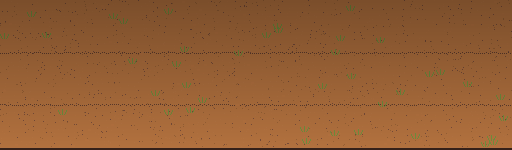
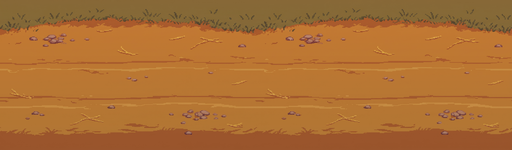
Refresh the fighting floors across all twelve stages (#1)

diff --git a/README.md b/README.md
@@ -64,7 +64,7 @@ Only these sprites are reused:
 - **UFO:** the saucer (cockpit layers, laser, muzzle, beach ball and shield) from Sproto-Arcade `art/attacks/player/higgsfield/saucer*`.
 - **Playable Sprotos:** six characters from the [Sproto-Fighter](https://github.com/crrreatorrr/Sproto-Fighter) fighters that have complete pose sets (`public/fighters/poses/`): **Sproto Sheriff** (`sproto3106`), **VAMP** (`vamp`), **Red Kev** (`guest09`), **Sprotel Bitcoin** (`guest10`), **Golden Sproto** (`rivet`) and **Dumpstar** (`dumpstar`), downscaled to 128². Each lobby slot starts on a different Sproto; if two players pick the same one, the duplicate gets a hue-shifted palette. Shadow Sprotos (the regular enemies) are darkened versions of the same six.
 
-- **Stages:** the scenery is Sproto Arcade's stage art (`art/level-01…10.jpg`, `art/rooftop-chase/01.webp`, `art/codebreak/shaft.webp`), scrolling at half speed. The Arcade floors are thin side-on strips, so `tools/build-backgrounds.py` draws each fighting floor as pixel art in a style that fits the stage (pier planks, dance floor, mossy slabs, ranch dirt, wet neon street, steel plates, flagstones, tiles, hatchery stone, asteroid rock, rooftop), coloured from that stage's own Arcade floor. Codebreak's floor is its shaft's circuit traces laid flat.
+- **Stages:** the half-speed scenery comes from Sproto Arcade (`art/level-01…10.jpg`, `art/rooftop-chase/01.webp`, and `art/codebreak/shaft.webp`). The shipped fighting floors in `public/assets/stages/` were generated with Higgsfield using each backdrop and original floor as references, then sized and color-matched for the game. `tools/build-backgrounds.py` regenerates the original procedural floor art and overwrites these assets.
 
 The weapons, items and effects are drawn in code (`public/js/render.js`). `tools/build-manifest.py` measures sprite bounds and hand positions and writes `public/js/manifest.js`.
 
